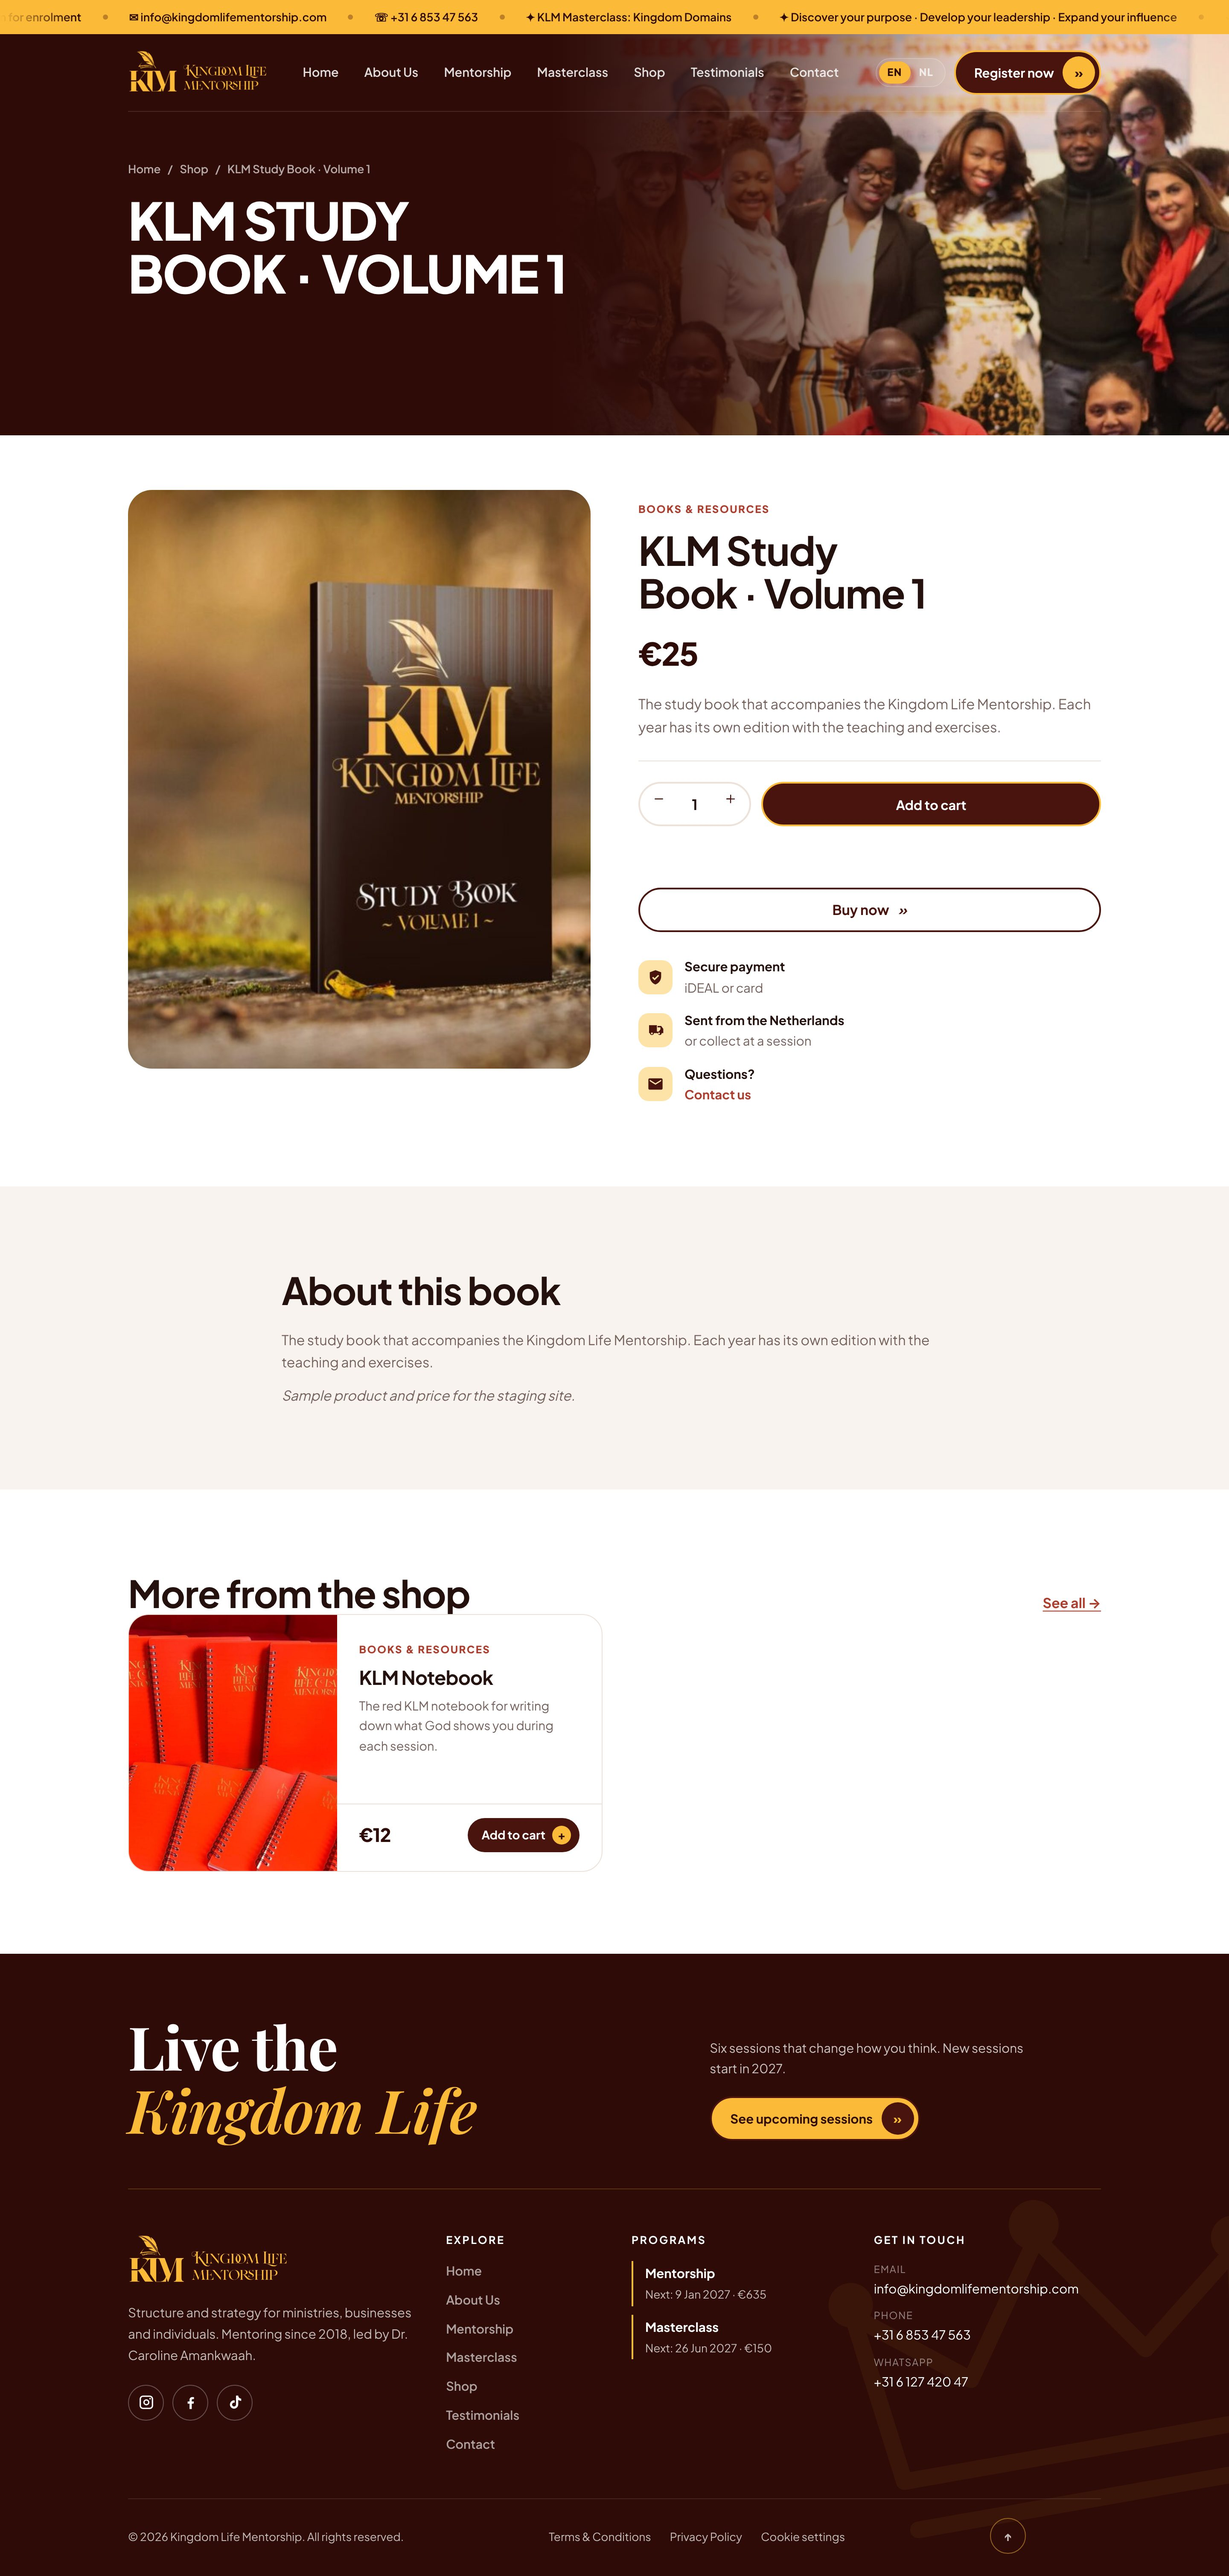
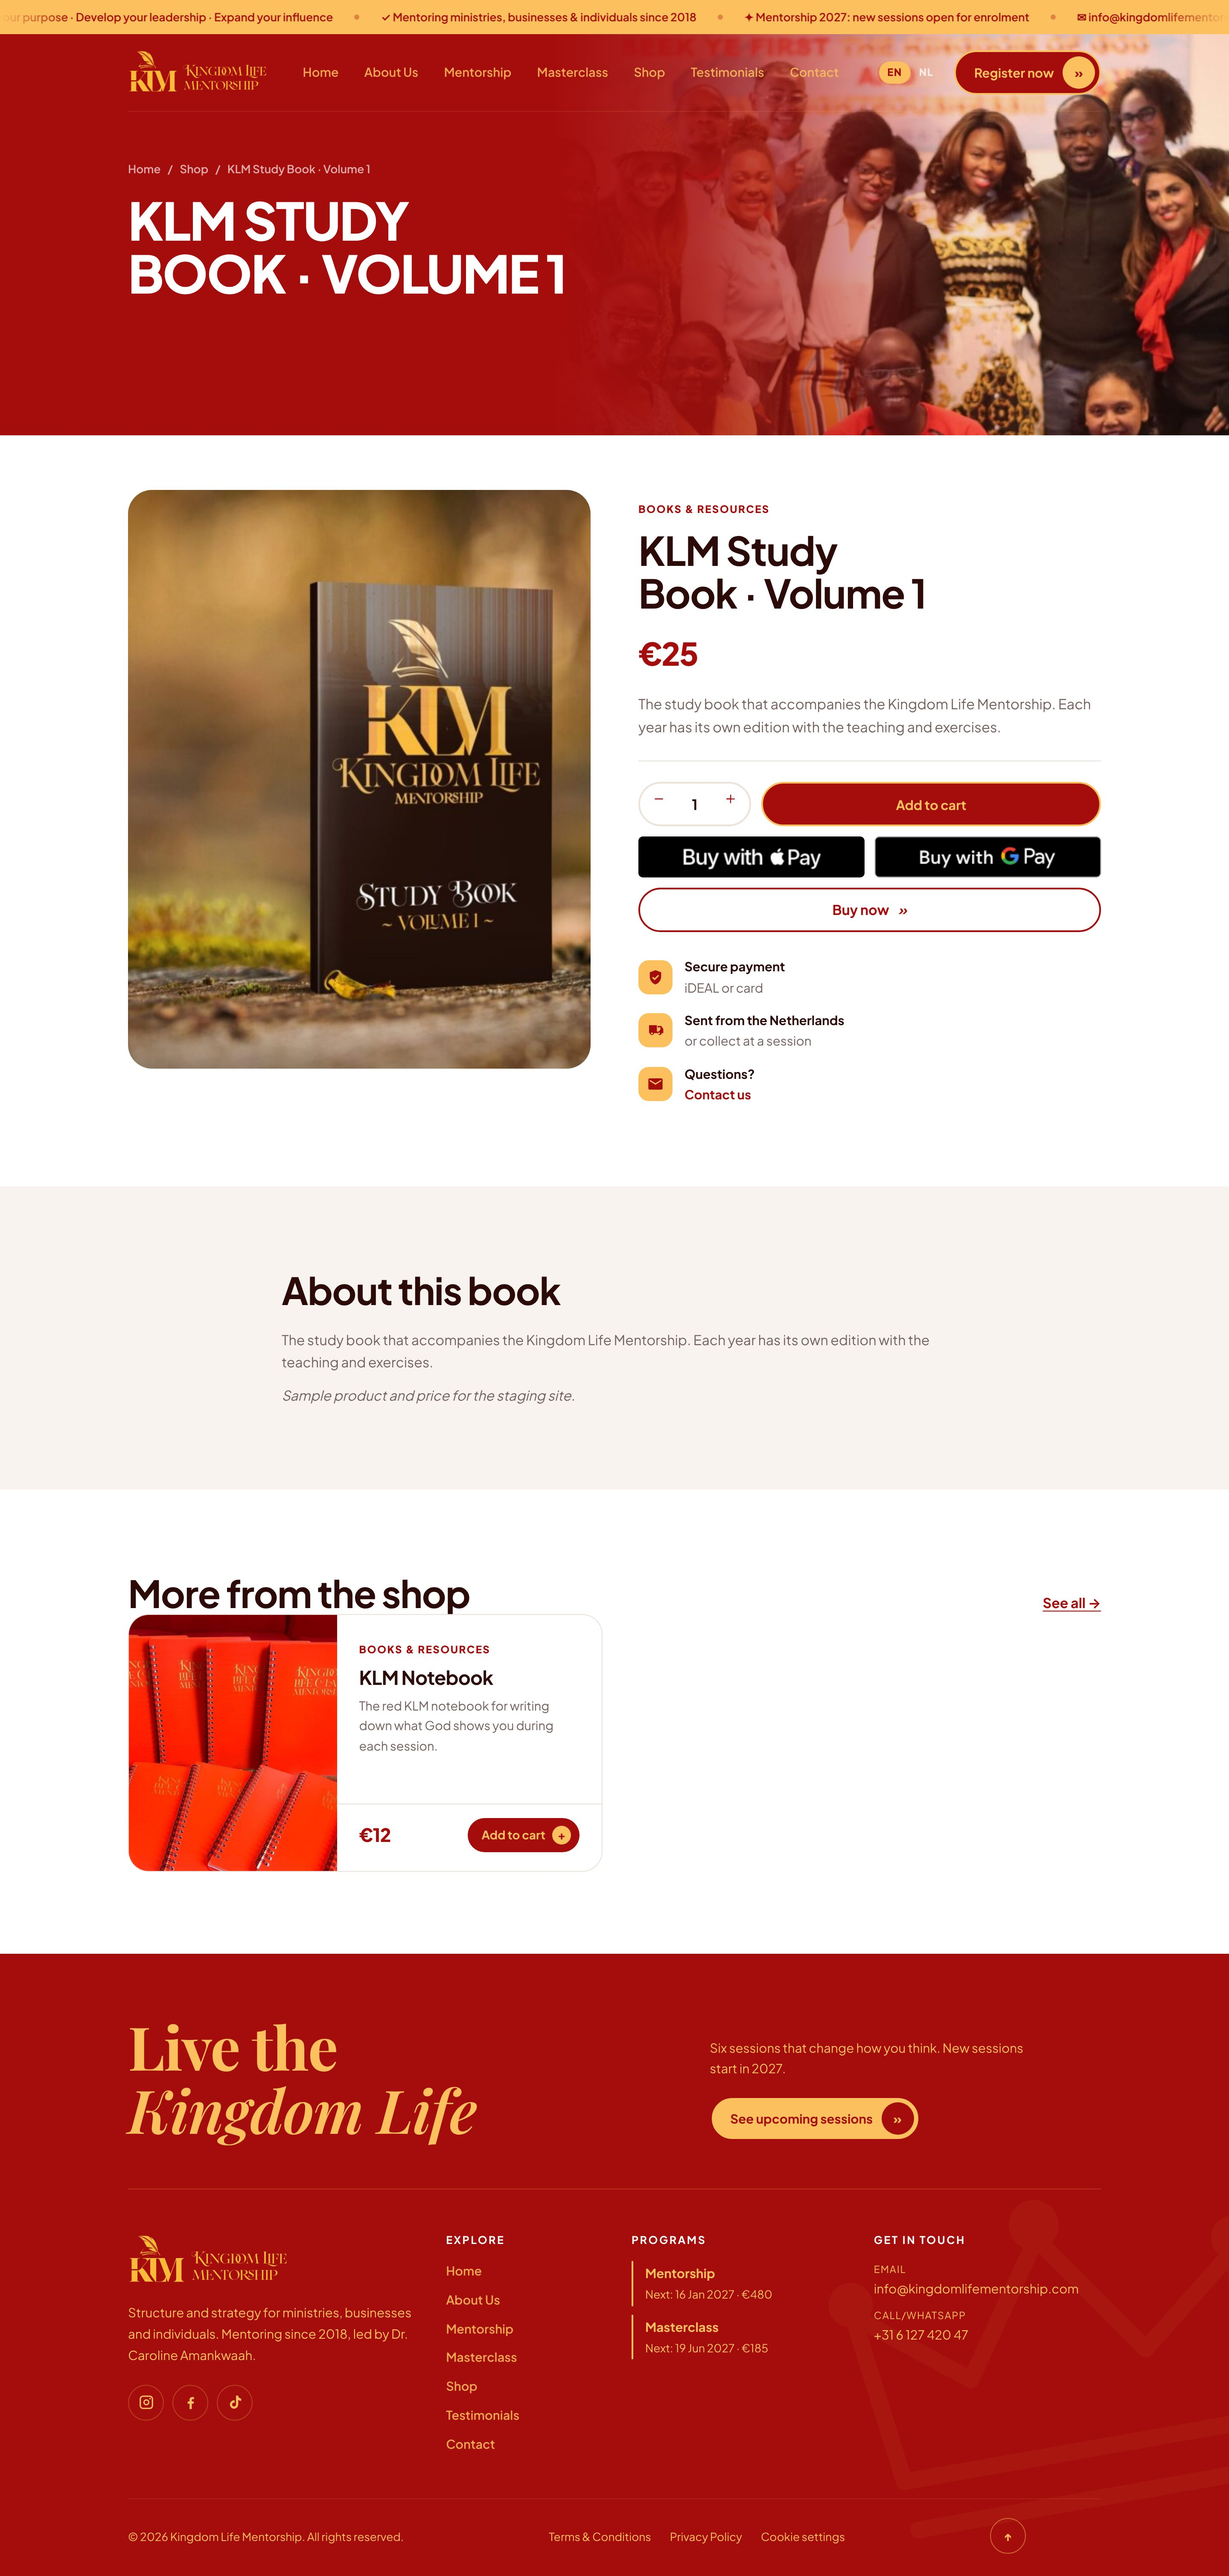
Retake Kingdom Life Mentorship screenshots in the new red brand colour
The site changed from brown to red. All 14 screenshots are retaken
(2x desktop), with cookie notice and chat button hidden, payment
buttons and card fields fully drawn, and footers included. A small
migration replaces the already-published copies on the server.

Claude-Session: https://claude.ai/code/session_01KHLRCVQ6Qo5CPLZFb4VQG8

diff --git a/tests/Feature/KingdomProjectsMigrationTest.php b/tests/Feature/KingdomProjectsMigrationTest.php
@@ -39,4 +39,14 @@ class KingdomProjectsMigrationTest extends TestCase
         $this->assertSame('/storage/projects/custom.jpg', Project::where('slug', 'kingdom-arts-academy')->value('feature_image'));
         $this->assertCount(13, Project::where('slug', 'kingdom-life-mentorship')->firstOrFail()->images);
     }
+
+    public function test_retaken_screenshots_replace_the_published_ones(): void
+    {
+        $path = storage_path('app/public/projects/kingdom-life-mentorship-site.jpg');
+        file_put_contents($path, 'old brown screenshot');
+
+        (require database_path('migrations/2026_11_27_000002_refresh_kingdom_life_mentorship_screenshots.php'))->up();
+
+        $this->assertFileEquals(resource_path('project-images/kingdom-life-mentorship-site.jpg'), $path);
+    }
 }

diff --git a/database/migrations/2026_11_27_000002_refresh_kingdom_life_mentorship_screenshots.php b/database/migrations/2026_11_27_000002_refresh_kingdom_life_mentorship_screenshots.php
@@ -1,0 +1,24 @@
+<?php
+
+use Illuminate\Database\Migrations\Migration;
+use Illuminate\Support\Facades\Storage;
+
+/**
+ * Kingdom Life Mentorship changed its brand colour from brown to red, so
+ * replace the published screenshots with the retaken ones. Only the image
+ * files change; the project's details and gallery order stay as they are.
+ */
+return new class extends Migration
+{
+    public function up(): void
+    {
+        foreach (glob(resource_path('project-images/kingdom-life-mentorship-*.jpg')) as $source) {
+            Storage::disk('public')->put('projects/'.basename($source), file_get_contents($source));
+        }
+    }
+
+    public function down(): void
+    {
+        // The previous screenshots showed the old brand colour; nothing to restore.
+    }
+};
